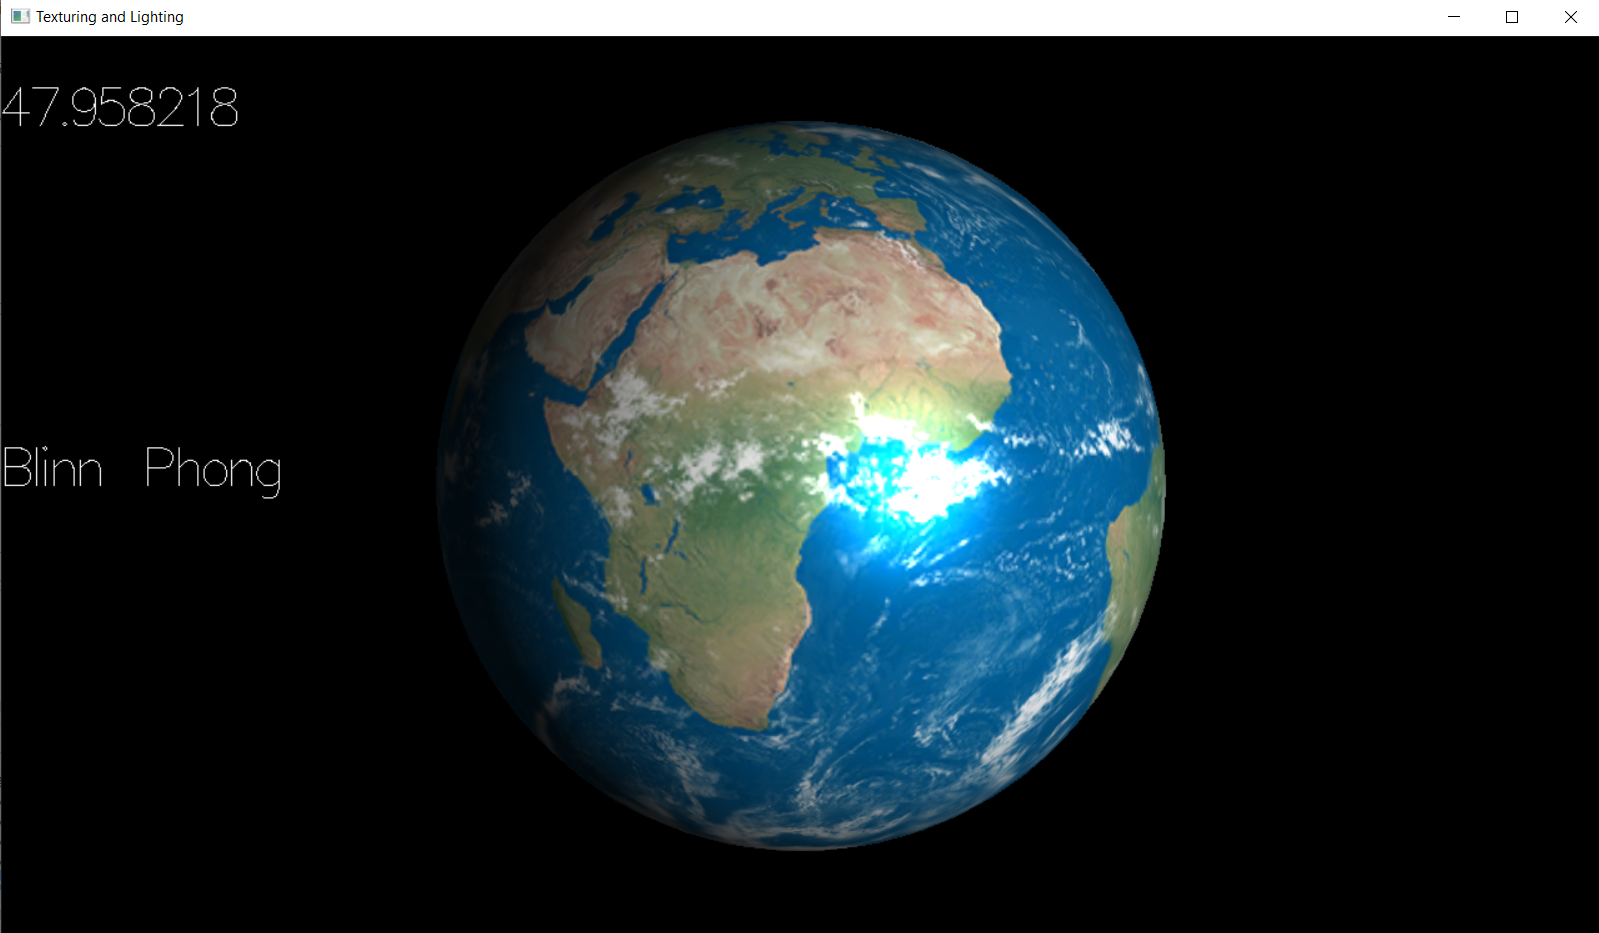
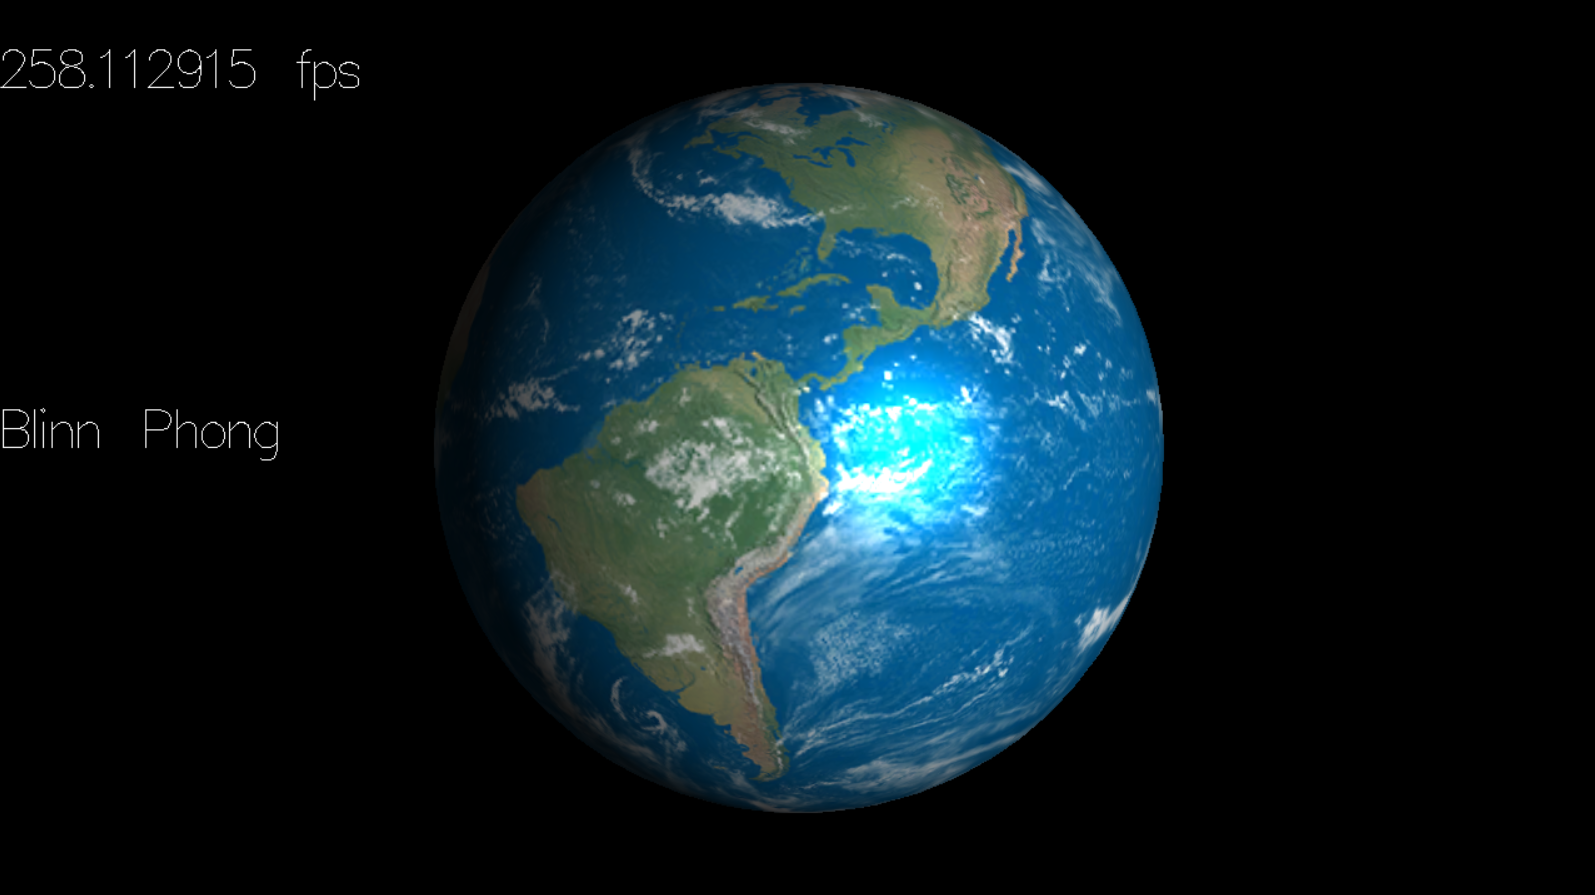
upload Phong shading result

diff --git a/README.md b/README.md
@@ -1,3 +1,4 @@
 ## Results
-* Comparision of Phong and Blinn Phong effect on earth rendering
-  <img width="500" src="images/Blinn_Phong.png">
+* Comparision of Phong and Blinn Phong effect on earth rendering  
+<img width="300" src="images/Blinn_Phong.png">  
+<img width="300" src="images/Phong.png">
